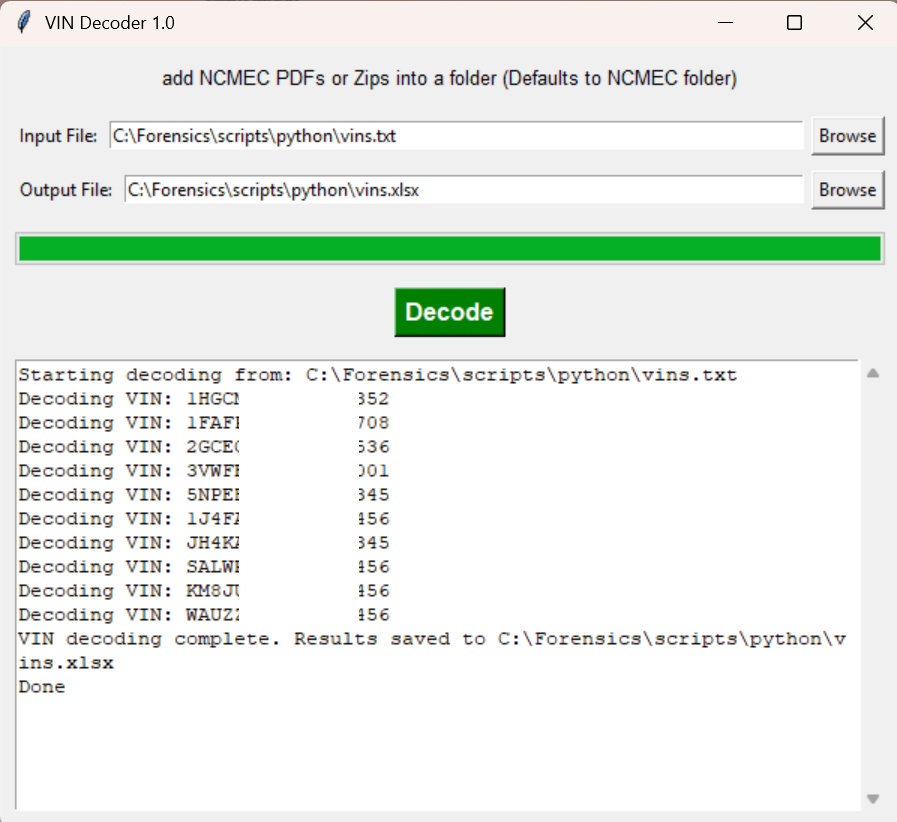
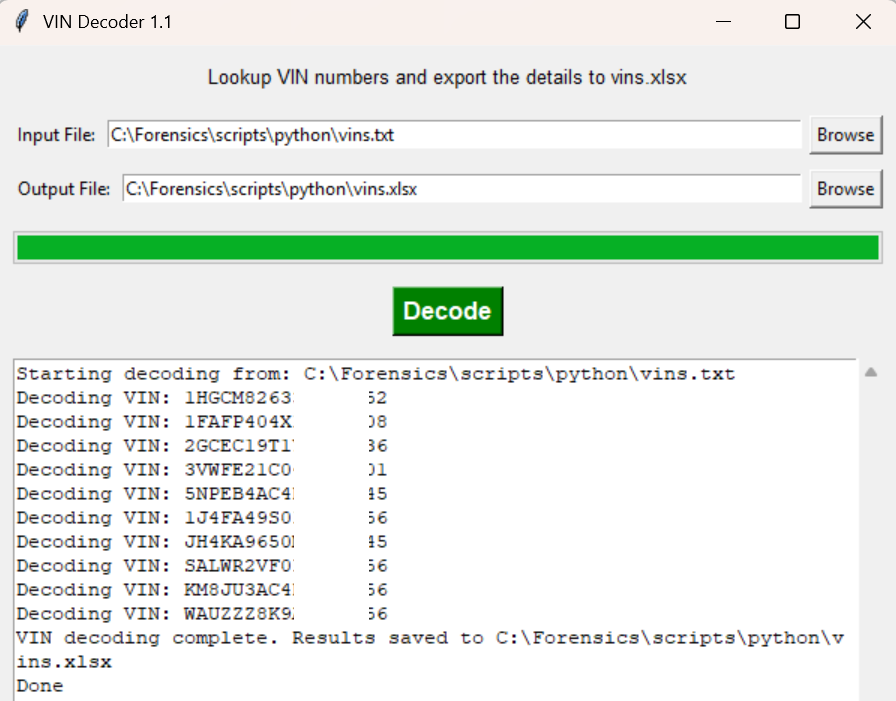
.

diff --git a/VinDecoder/VIN_Decoder.py b/VinDecoder/VIN_Decoder.py
@@ -6,7 +6,7 @@ import threading
 import tkinter as tk
 from tkinter import ttk, filedialog, scrolledtext, messagebox
 
-version = '1.0'
+version = '1.1'
 
 # Constants
 VIN_API_ENDPOINT = "https://vpic.nhtsa.dot.gov/api/vehicles/DecodeVinValuesExtended/{vin}?format=json"
@@ -29,7 +29,7 @@ class VINDecoderGUI:
         self.root.geometry("600x520")
 
         # Label
-        lbl_intro = tk.Label(root, text="add NCMEC PDFs or Zips into a folder (Defaults to NCMEC folder)", font=("Arial", 10))
+        lbl_intro = tk.Label(root, text="Lookup VIN numbers and export the details to vins.xlsx", font=("Arial", 10))
         lbl_intro.pack(pady=10)
 
         # Input File
